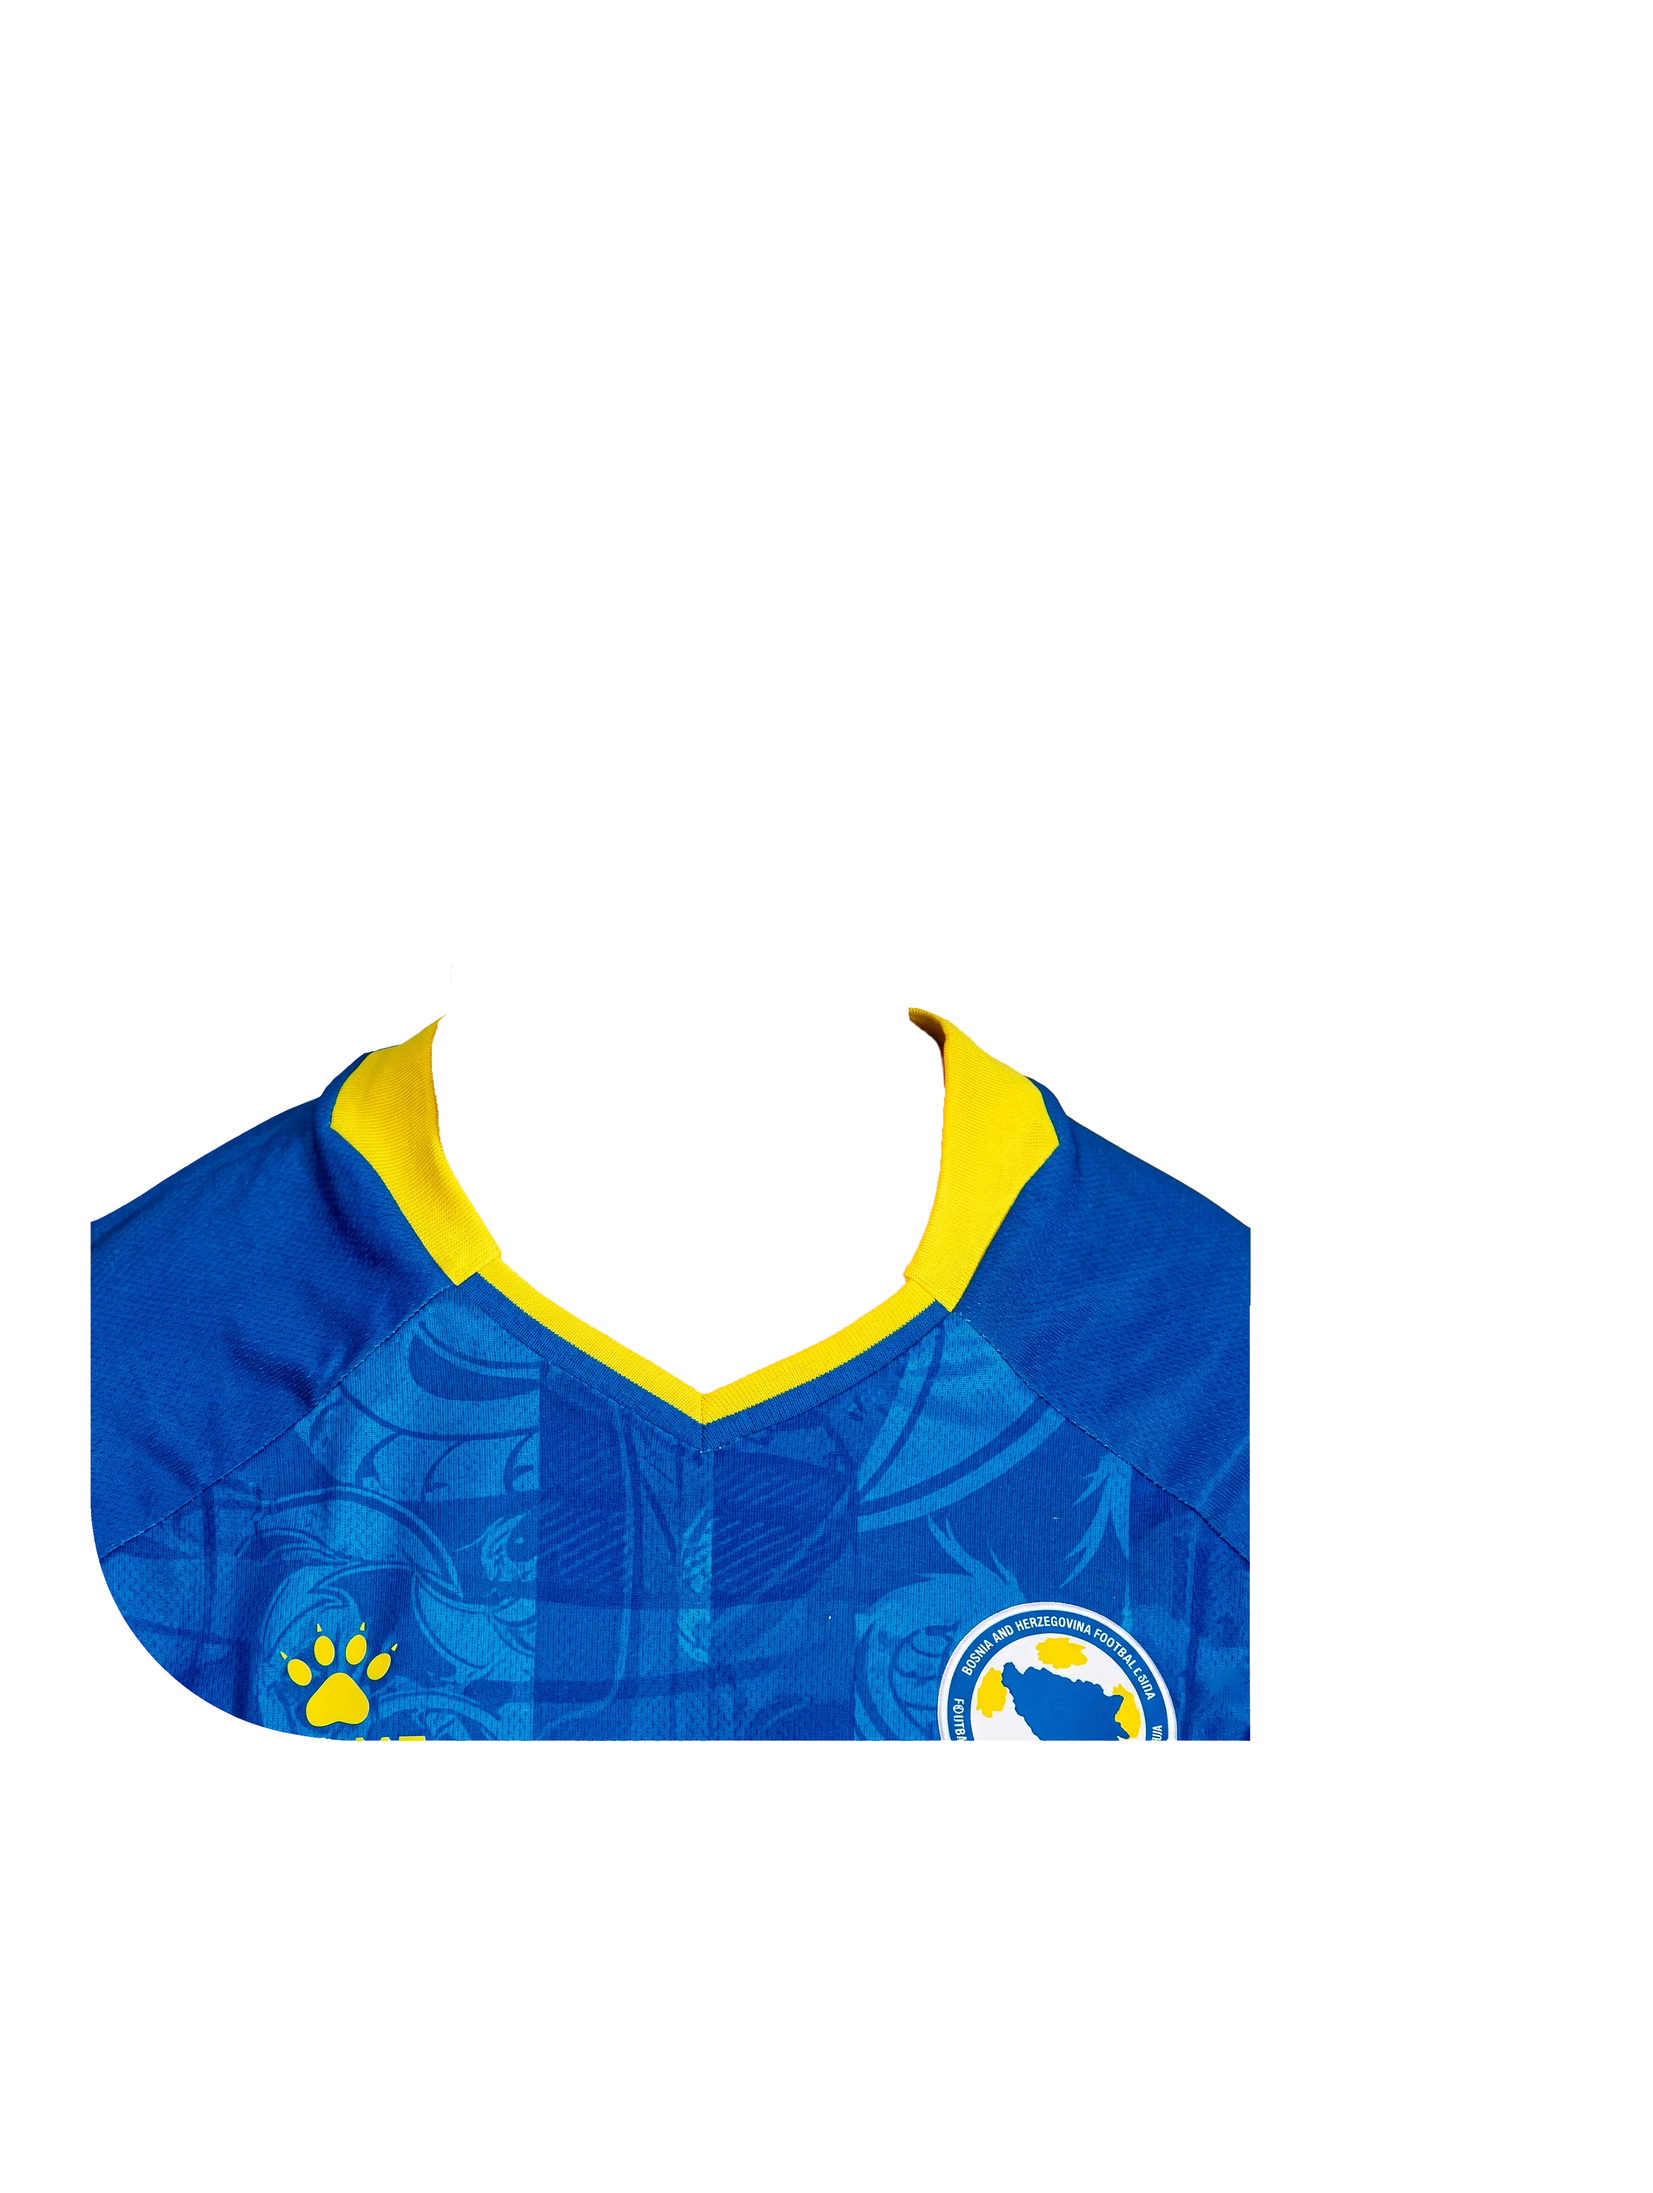
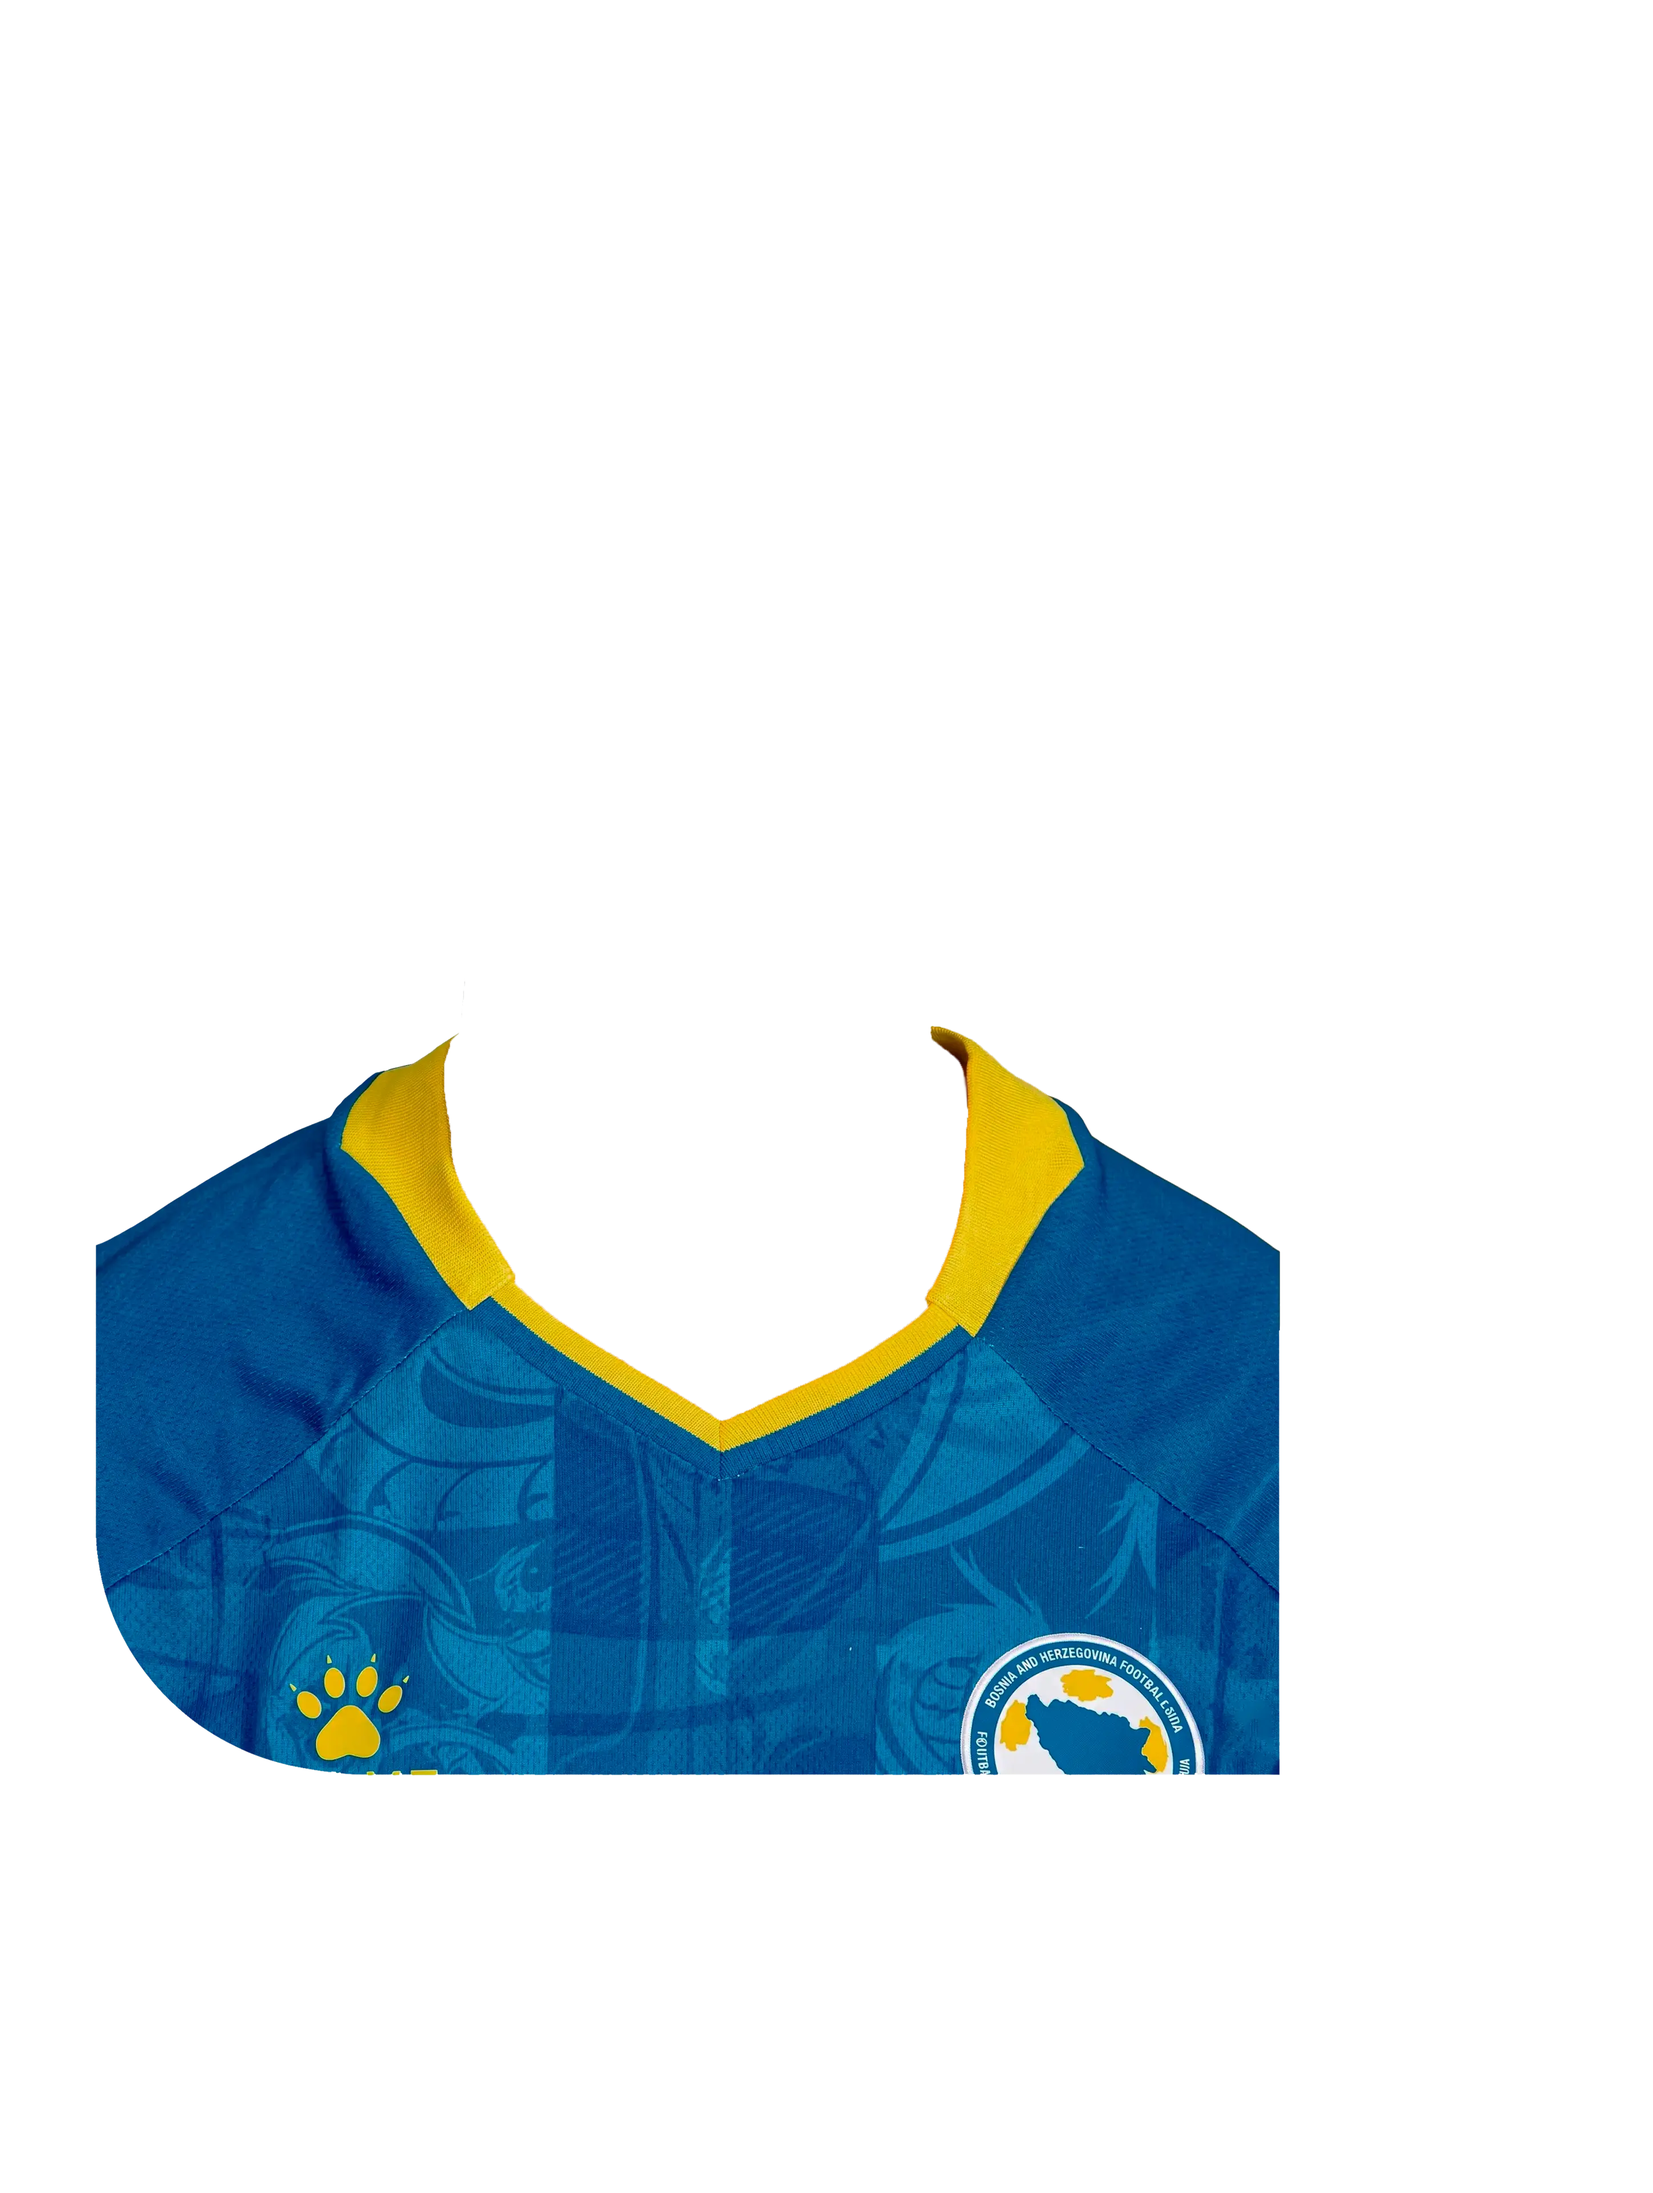
honduras

Changed region(s): [[0.0311, 0.4375, 0.7772, 0.8125]]

diff --git a/frontend/Generador/edition-2026.js b/frontend/Generador/edition-2026.js
@@ -109,7 +109,8 @@ const Edition2026 = {
             { code: 'CHI', name: 'Chile' },
             { code: 'BOL', name: 'Bolivia' },
             { code: 'RUS', name: 'Rusia' },
-            { code: 'CRC', name: 'Costa Rica'},
+            { code: 'CRC', name: 'Costa Rica' },
+            { code: 'HON', name: 'Honduras'},
         ],
     },
 
@@ -163,7 +164,8 @@ const Edition2026 = {
         GHA: { c2: '#ce1126', c6: '#006b3f', cCosito: '#fcd116' },
         PAN: { c2: '#ffffff', c6: '#0000ab', cCosito: '#db0000' },
         IRL: { c2: '#009a49', c6: '#ff7900', cCosito: '#ffffff' },
-        CRC: { c2: '#0000b4', c6: '#d90000', cCosito: '#ffffff'},
+        CRC: { c2: '#0000b4', c6: '#d90000', cCosito: '#ffffff' },
+        HON: { c2: '#18c3df', c6: '#ffffff', cCosito: '#6dcedf' },
     },
 
     positions: {

diff --git a/frontend/Generador/editor.js b/frontend/Generador/editor.js
@@ -113,7 +113,7 @@ const ALPHA3_TO_ALPHA2 = {
     // Grupo L
     ENG: 'gb-eng', CRO: 'hr', GHA: 'gh', PAN: 'pa',
     // Extra
-    VEN: 've', IRL: 'ie', ITA: 'it', POL: 'pl', CHI: 'cl', BOL: 'bo', RUS: 'ru', DEN: 'dk', PER: 'pe', ISL: 'is', NGA: 'ng', CRC: 'cr', SRB: 'rs', 
+    VEN: 've', IRL: 'ie', ITA: 'it', POL: 'pl', CHI: 'cl', BOL: 'bo', RUS: 'ru', DEN: 'dk', PER: 'pe', ISL: 'is', NGA: 'ng', CRC: 'cr', SRB: 'rs', HON: 'hn', 
 };
 
 let _flagPending = null;
